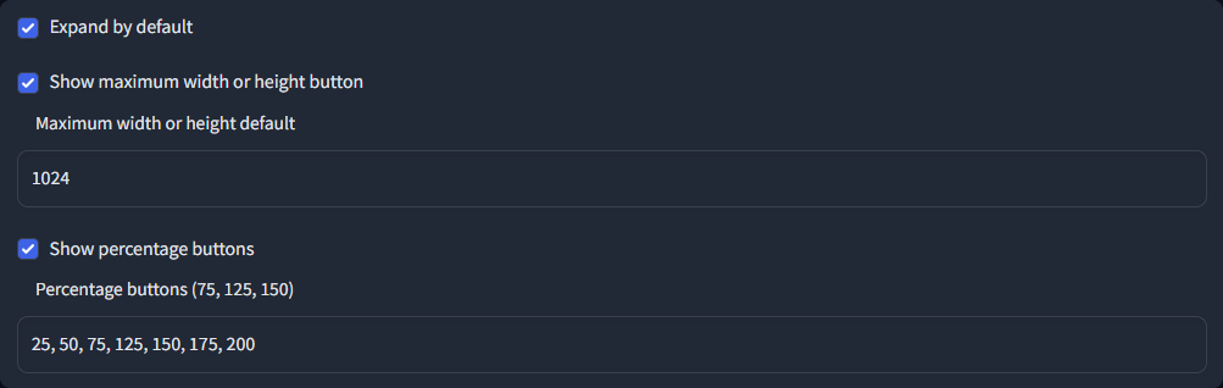
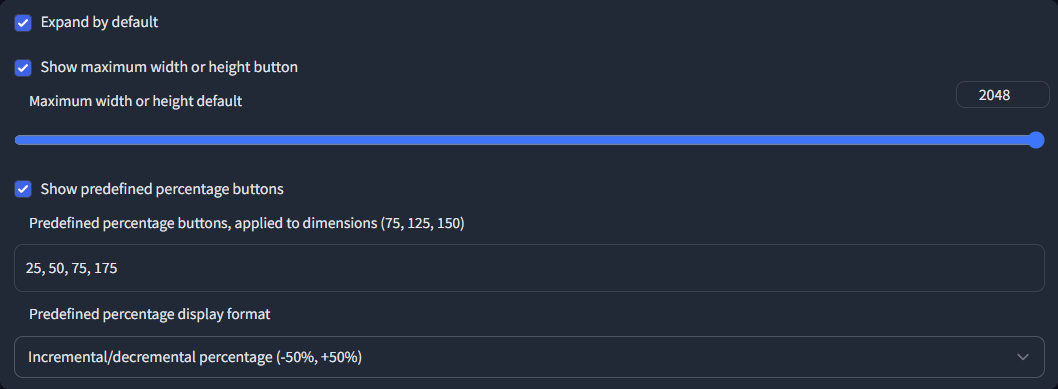
Update README.md to reflect changes

diff --git a/README.md b/README.md
@@ -21,10 +21,11 @@ Install via the extensions tab on the [AUTOMATIC1111 webui](https://github.com/A
   - Determines whether the 'Aspect Ratio Helper' accordion expands by default
 - Show maximum width of height button
 - Maximum width or height default
-- Show percentage buttons
-- Percentage buttons
+- Show predefined percentage buttons
+- Predefined percentage buttons
   - Comma separated list of percentages
   - i.e `25, 50, 75, 125, 150, 175, 200` `50, 125, 300` etc.
+- Predefined percentage display format
 
 ![settings.png](docs%2Fsettings.png)
 
